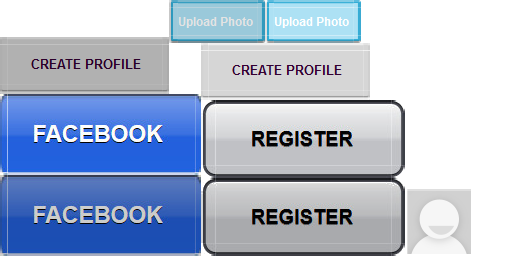
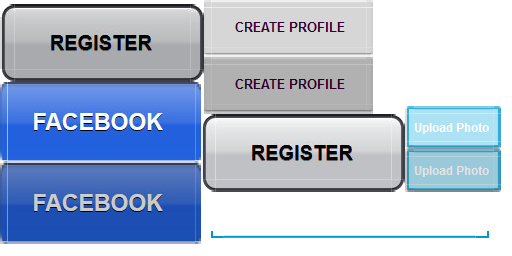
Implementing Text Field, refactoring

diff --git a/core/src/com/me/coopapp/screen/CoopAppActor.java b/core/src/com/me/coopapp/screen/CoopAppActor.java
@@ -4,6 +4,8 @@ import com.badlogic.gdx.Gdx;
 import com.badlogic.gdx.scenes.scene2d.Actor;
 import com.badlogic.gdx.scenes.scene2d.Stage;
 import com.me.coopapp.gamestate.Disposer;
+import com.me.coopapp.gamestate.GameState;
+import com.me.coopapp.gamestate.GdxGameStateItem;
 import com.me.coopapp.gamestate.IGLContext;
 
 public class CoopAppActor implements IGLContext {
@@ -13,14 +15,29 @@ public class CoopAppActor implements IGLContext {
 	protected float yCentreOffset = 0;
 	protected String type;
 	
+	public CoopAppActor() {
+		setGdxGameStateItem();
+	}
+	
 	public CoopAppActor(String _type) {
 		type = _type;
+		
+		setGdxGameStateItem();
+	}
+	
+	public CoopAppActor(float _xCentreOffset, float _yCentreOffset) {
+		xCentreOffset = _xCentreOffset;
+		yCentreOffset = _yCentreOffset;
+		
+		setGdxGameStateItem();
 	}
 	
 	public CoopAppActor(String _type, float _xCentreOffset, float _yCentreOffset) {
 		type = _type;
 		xCentreOffset = _xCentreOffset;
 		yCentreOffset = _yCentreOffset;
+		
+		setGdxGameStateItem();
 	}
 	
 	protected void setWidth() {
@@ -57,7 +74,7 @@ public class CoopAppActor implements IGLContext {
 
 	@Override
 	public void instantiate() {
-		// TODO Auto-generated method stub
+		// Inherited method for creating instance while in Gdx thread
 		
 	}
 
@@ -65,6 +82,10 @@ public class CoopAppActor implements IGLContext {
 	public void dispose() {
 		// TODO Auto-generated method stub
 		
+	}
+	
+	private void setGdxGameStateItem() {
+		GameState.getGameState().items.add(new GdxGameStateItem(this));
 	}
 
 }

diff --git a/core/src/com/me/coopapp/screen/setup/RegisterOfflineScreen.java b/core/src/com/me/coopapp/screen/setup/RegisterOfflineScreen.java
@@ -5,9 +5,10 @@ import com.me.coopapp.Types.ScreenTypes;
 import com.me.coopapp.gamestate.GameState;
 import com.me.coopapp.gamestate.GdxGameStateItem;
 import com.me.coopapp.screen.Button;
-import com.me.coopapp.screen.Icon;
+import com.me.coopapp.screen.GdxIcon;
 import com.me.coopapp.screen.Screen;
 import com.me.coopapp.screen.ScreenSwitchButton;
+import com.me.coopapp.screen.GdxTextField;
 
 public class RegisterOfflineScreen extends Screen {
 	
@@ -21,10 +22,11 @@ public class RegisterOfflineScreen extends Screen {
 		
 		
 		//Set layout
+		new GdxTextField(0, 0);
 		GameState.getGameState().items.add(new GdxGameStateItem(new Button("UploadPhotoBtn", -100, -75)));
-		GameState.getGameState().items.add(new GdxGameStateItem(new Icon("UploadPhotoIcon", -170, -150)));
-		GameState.getGameState().items.add(new GdxGameStateItem(new Icon("UploadPhotoIcon", -90, -150)));
-		GameState.getGameState().items.add(new GdxGameStateItem(new Icon("UploadPhotoIcon", -10, -150)));
+		GameState.getGameState().items.add(new GdxGameStateItem(new GdxIcon("UploadPhotoIcon", -170, -150)));
+		GameState.getGameState().items.add(new GdxGameStateItem(new GdxIcon("UploadPhotoIcon", -90, -150)));
+		GameState.getGameState().items.add(new GdxGameStateItem(new GdxIcon("UploadPhotoIcon", -10, -150)));
 		GameState.getGameState().items.add(new GdxGameStateItem(new ScreenSwitchButton("CreateProfileBtn", 0, -250, ScreenTypes.loadingTexture)));
 		
 		GameLogic.getInstance().GameTasks.add(GameState.getGameState());

diff --git a/core/src/com/me/coopapp/screen/GdxIcon.java b/core/src/com/me/coopapp/screen/GdxIcon.java
@@ -4,18 +4,19 @@ import com.badlogic.gdx.Gdx;
 import com.badlogic.gdx.graphics.Texture;
 import com.badlogic.gdx.graphics.g2d.TextureAtlas;
 import com.badlogic.gdx.graphics.g2d.TextureRegion;
+import com.badlogic.gdx.scenes.scene2d.Actor;
 import com.badlogic.gdx.scenes.scene2d.ui.Image;
 import com.badlogic.gdx.scenes.scene2d.ui.Skin;
 import com.badlogic.gdx.scenes.scene2d.utils.Drawable;
 import com.badlogic.gdx.utils.ObjectSet;
 
-public class Icon extends CoopAppActor{
+public class GdxIcon extends CoopAppActor{
 	
-	public Icon(String _type) {
+	public GdxIcon(String _type) {
 		super(_type);
 	}
 	
-	public Icon(String _type, float _xCentreOffset, float _yCentreOffset) {
+	public GdxIcon(String _type, float _xCentreOffset, float _yCentreOffset) {
 		super(_type, _xCentreOffset, _yCentreOffset);
 	}
 
@@ -33,6 +34,28 @@ public class Icon extends CoopAppActor{
 		Skin txSkin = new Skin(txAtlas);
 
 		return txSkin.getDrawable(type);
+	}
+	
+	//TO DO: Implement disposer
+	
+	public class CoopAppIcon implements ICoopAppActor {
+		
+		private Image icon;
+		
+		public CoopAppIcon() {
+			
+		}
+
+		@Override
+		public void set(Object _object) {
+			icon = (Image) _object;
+		}
+
+		@Override
+		public Actor get() {
+			return icon;
+		}
+		
 	}
 
 }

diff --git a/core/src/com/me/coopapp/screen/GdxTextField.java b/core/src/com/me/coopapp/screen/GdxTextField.java
@@ -1,0 +1,53 @@
+package com.me.coopapp.screen;
+
+import com.badlogic.gdx.Gdx;
+import com.badlogic.gdx.graphics.g2d.TextureAtlas;
+import com.badlogic.gdx.scenes.scene2d.Actor;
+import com.badlogic.gdx.scenes.scene2d.ui.Image;
+import com.badlogic.gdx.scenes.scene2d.ui.Skin;
+import com.badlogic.gdx.scenes.scene2d.ui.TextField;
+
+
+public class GdxTextField extends CoopAppActor {
+	
+	public GdxTextField(float _xCentreOffset, float _yCentreOffset) {
+		super(_xCentreOffset, _yCentreOffset);
+	}
+	
+	public void instantiate() {
+		actor = new CoopAppTextField();
+		
+		actor.set(new TextField("TO DO: Set with style name?", getSkinFromPack("Buttons")));
+	}
+	
+	//TO DO: Implement disposer
+	
+	private Skin getSkinFromPack(String packName) {
+
+		TextureAtlas txAtlas = new TextureAtlas(Gdx.files.internal(""+packName+".pack"));
+
+		return new Skin(txAtlas);
+	}
+	
+	public class CoopAppTextField implements ICoopAppActor {
+		
+		Image textField;
+		
+		public CoopAppTextField() {
+			
+		}
+
+		@Override
+		public void set(Object _object) {
+			textField = (Image) _object;
+			
+		}
+
+		@Override
+		public Actor get() {
+			return textField;
+		}
+
+	}
+
+}

diff --git a/core/src/com/me/coopapp/screen/setup/CreateCharacterScreen.java b/core/src/com/me/coopapp/screen/setup/CreateCharacterScreen.java
@@ -1,0 +1,15 @@
+package com.me.coopapp.screen.setup;
+
+import com.me.coopapp.screen.Screen;
+
+public class CreateCharacterScreen extends Screen {
+	
+	public CreateCharacterScreen() {
+		
+	}
+	
+	public void SetUI() {
+		
+	}
+
+}
